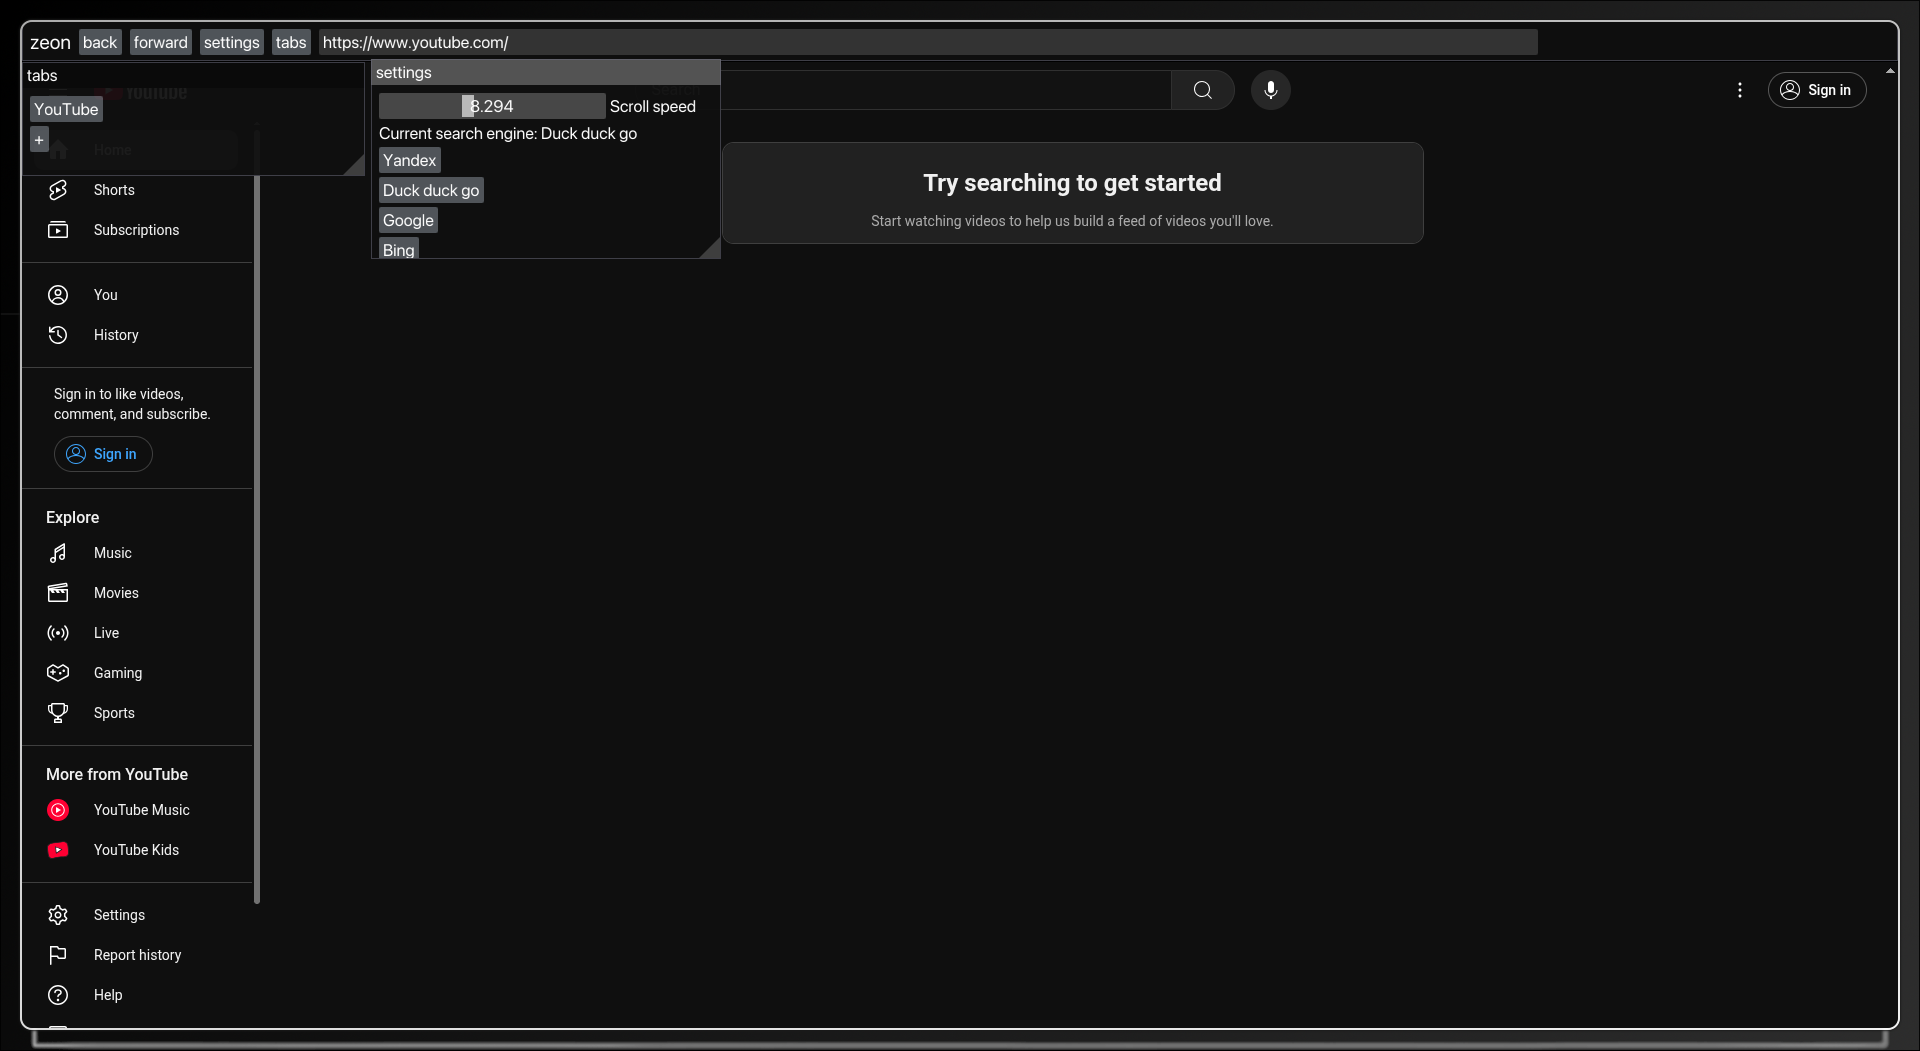
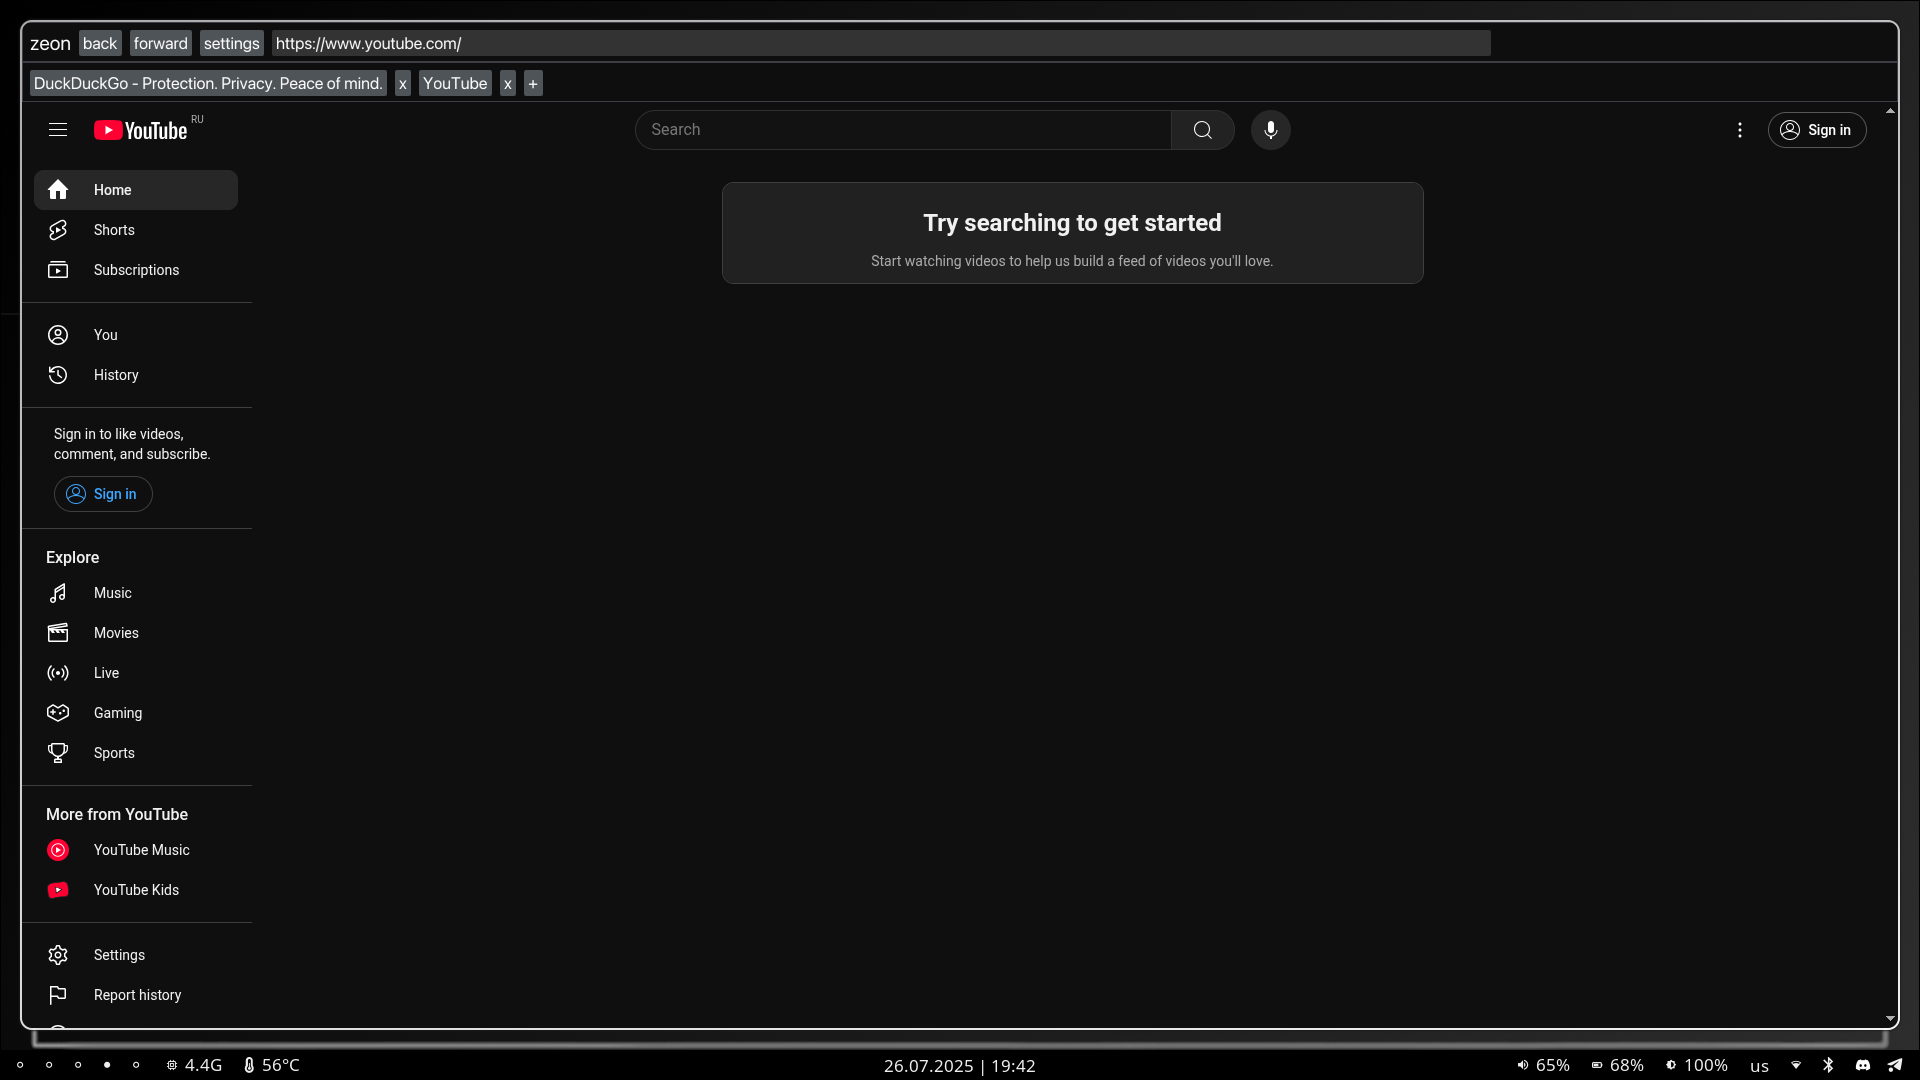
Update

diff --git a/src/drawing/bars.cc b/src/drawing/bars.cc
@@ -1,0 +1,84 @@
+#include "../zeon.hh"
+#include "../zeondefs.hh"
+#include <format>
+
+using namespace z;
+
+static void UpdateURL() {
+	strncpy(z::g_zeon->ui_url,
+					g_zeon->browsers[g_zeon->active_tab]->GetMainFrame()->GetURL().ToString().c_str(),
+					sizeof z::g_zeon->ui_url);
+}
+
+void Zeon::DrawTopBar() {
+	static auto& io = ImGui::GetIO();
+	ImGui::SetNextWindowPos({0, 0});
+	ImGui::SetNextWindowSize({io.DisplaySize.x, ZEON_TOPBAR_HEIGHT / 2});
+
+	ImGui::Begin("zeon", nullptr,
+							 ImGuiWindowFlags_NoResize | ImGuiWindowFlags_NoTitleBar | ImGuiWindowFlags_NoMove |
+									 ImGuiWindowFlags_NoScrollbar | ImGuiWindowFlags_NoScrollWithMouse);
+
+	ImGui::SetWindowFontScale(1.2f);
+	ImGui::Text("zeon");
+	ImGui::SetWindowFontScale(1.0f);
+
+	ImGui::SameLine();
+	if (ImGui::Button("back")) {
+		browsers[active_tab]->GoBack();
+	}
+	ImGui::SameLine();
+	if (ImGui::Button("forward")) {
+		browsers[active_tab]->GoForward();
+	}
+	ImGui::SameLine();
+	if (ImGui::Button("settings")) {
+		g_show_settings = !g_show_settings;
+	}
+
+	ImGui::SameLine();
+	if (ImGui::InputText("##url", ui_url, sizeof ui_url, ImGuiInputTextFlags_EnterReturnsTrue)) {
+		browsers[active_tab]->GetMainFrame()->LoadURL(CefString(ui_url));
+	}
+	ImGui::SameLine();
+	ImGui::End();
+}
+
+void Zeon::DrawTabsBar() {
+	static auto& io = ImGui::GetIO();
+	ImGui::SetNextWindowPos({0, ZEON_TOPBAR_HEIGHT / 2});
+	ImGui::SetNextWindowSize({io.DisplaySize.x, ZEON_TOPBAR_HEIGHT / 2});
+
+	ImGui::Begin("tabs_bar", nullptr,
+							 ImGuiWindowFlags_NoResize | ImGuiWindowFlags_NoTitleBar | ImGuiWindowFlags_NoMove |
+									 ImGuiWindowFlags_NoScrollbar | ImGuiWindowFlags_NoScrollWithMouse);
+	for (int i = 0; i < browsers.size(); i++) {
+		auto& browser = browsers[i];
+
+		std::string tab_label;
+		CefRefPtr<CefNavigationEntry> entry = browser->GetHost()->GetVisibleNavigationEntry();
+		if (entry && entry->IsValid()) {
+			tab_label = entry->GetTitle().ToString();
+		}
+		if (tab_label.empty()) {
+			tab_label = browser->GetMainFrame()->GetURL().ToString();
+		}
+		if (ImGui::Button(std::format("{}##tab{}", tab_label, i).c_str())) {
+			active_tab = i;
+			UpdateURL();
+		}
+		if (browsers.size() > 1) {
+			ImGui::SameLine();
+			if (ImGui::Button(std::format("x##tab{}", i).c_str())) {
+				CloseTab(i);
+				UpdateURL();
+				break;
+			}
+		}
+		ImGui::SameLine();
+	}
+	if (ImGui::Button("+")) {
+		OpenTab(searchEngines[currentSearchEngine].defaultUrl);
+	}
+	ImGui::End();
+}

diff --git a/src/drawing/settings.cc b/src/drawing/settings.cc
@@ -1,0 +1,30 @@
+#include "../zeon.hh"
+#include "../zeondefs.hh"
+
+using namespace z;
+
+void Zeon::DrawSettings() {
+	ImGui::SetNextWindowPos({0, ZEON_TOPBAR_HEIGHT}, ImGuiCond_Once);
+	ImGui::SetNextWindowSize({350, 200}, ImGuiCond_Once);
+	ImGui::Begin("settings", nullptr,
+							 ImGuiWindowFlags_NoScrollbar | ImGuiWindowFlags_NoScrollWithMouse |
+									 ImGuiWindowFlags_NoCollapse);
+	ImGui::SliderFloat("Scroll speed", &scrollSpeed, 1.0f, 20.0f);
+
+	ImGui::Text("Current search engine: %s", searchEngines[currentSearchEngine].name.c_str());
+	int i = 0;
+	for (Zeon::SearchEngine& se : searchEngines) {
+		if (ImGui::Button(se.name.c_str())) {
+			currentSearchEngine = i;
+		}
+		i++;
+	}
+	ImGui::Separator();
+
+	if (ImGui::Button("Show devtools")) {
+		browsers[active_tab]->GetHost()->ShowDevTools(CefWindowInfo(), nullptr, CefBrowserSettings(),
+																									CefPoint());
+	}
+
+	ImGui::End();
+}

diff --git a/src/drawing/state.cc b/src/drawing/state.cc
@@ -1,0 +1,24 @@
+#include "../zeon.hh"
+#include "../zeondefs.hh"
+
+using namespace z;
+
+void Zeon::DrawState() {
+	static auto& io = ImGui::GetIO();
+	ImGui::SetNextWindowPos({0, io.DisplaySize.y - ZEON_TOPBAR_HEIGHT / 2});
+	ImGui::SetNextWindowSize({0, io.DisplaySize.y});
+	if (BrowserState == BS_READY)
+		return;
+	ImGui::Begin("state", nullptr,
+							 ImGuiWindowFlags_NoResize | ImGuiWindowFlags_NoTitleBar | ImGuiWindowFlags_NoMove |
+									 ImGuiWindowFlags_NoScrollbar | ImGuiWindowFlags_NoScrollWithMouse);
+	switch (BrowserState) {
+	case Zeon::BS_LOADING: {
+		std::string url = browsers[active_tab]->GetMainFrame()->GetURL().ToString();
+		ImGui::Text("%s", url.c_str());
+	} break;
+	case Zeon::BS_READY:
+		break;
+	}
+	ImGui::End();
+}

diff --git a/src/drawing/draw.cc b/src/drawing/draw.cc
@@ -1,0 +1,16 @@
+#include "../zeon.hh"
+
+using namespace z;
+
+bool z::g_show_demo_window = false;
+bool z::g_show_settings = false;
+
+void Zeon::Draw() {
+	DrawTopBar();
+	DrawTabsBar();
+	DrawState();
+	if (g_show_demo_window)
+		ImGui::ShowDemoWindow(nullptr);
+	if (g_show_settings)
+		DrawSettings();
+}
